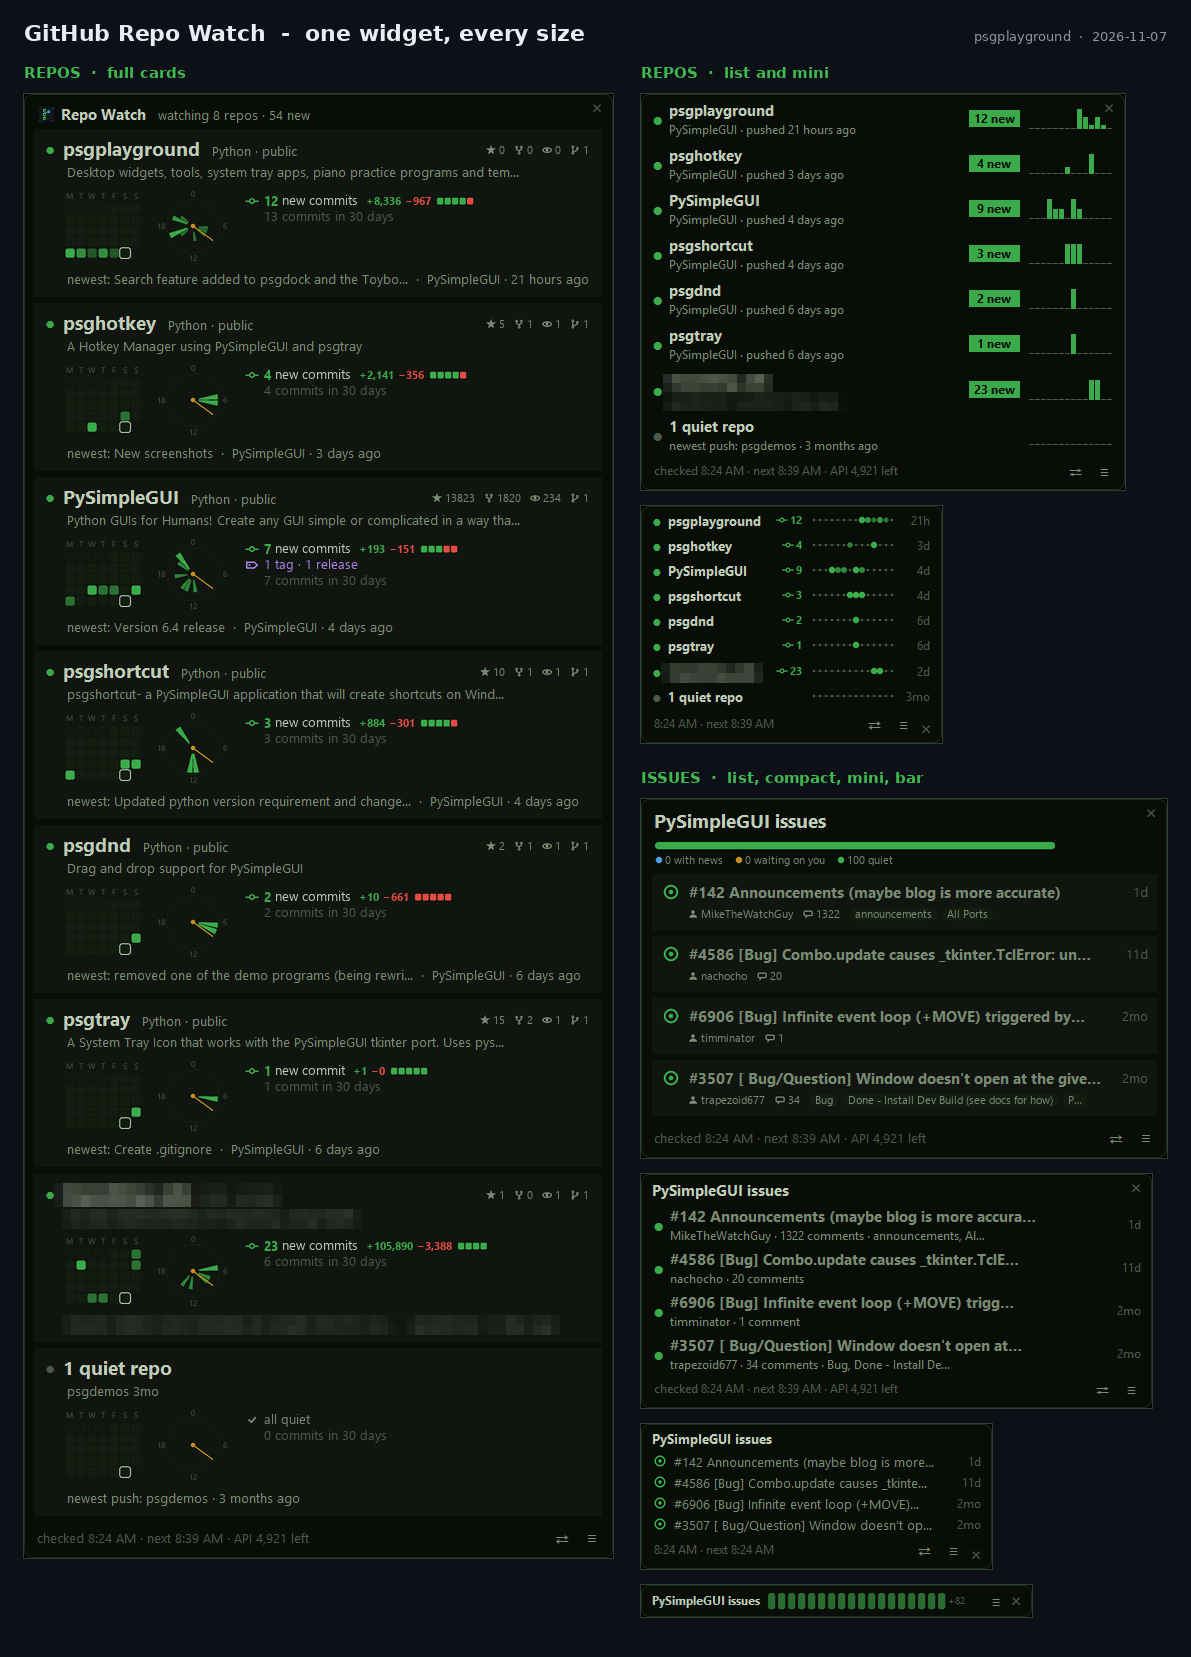
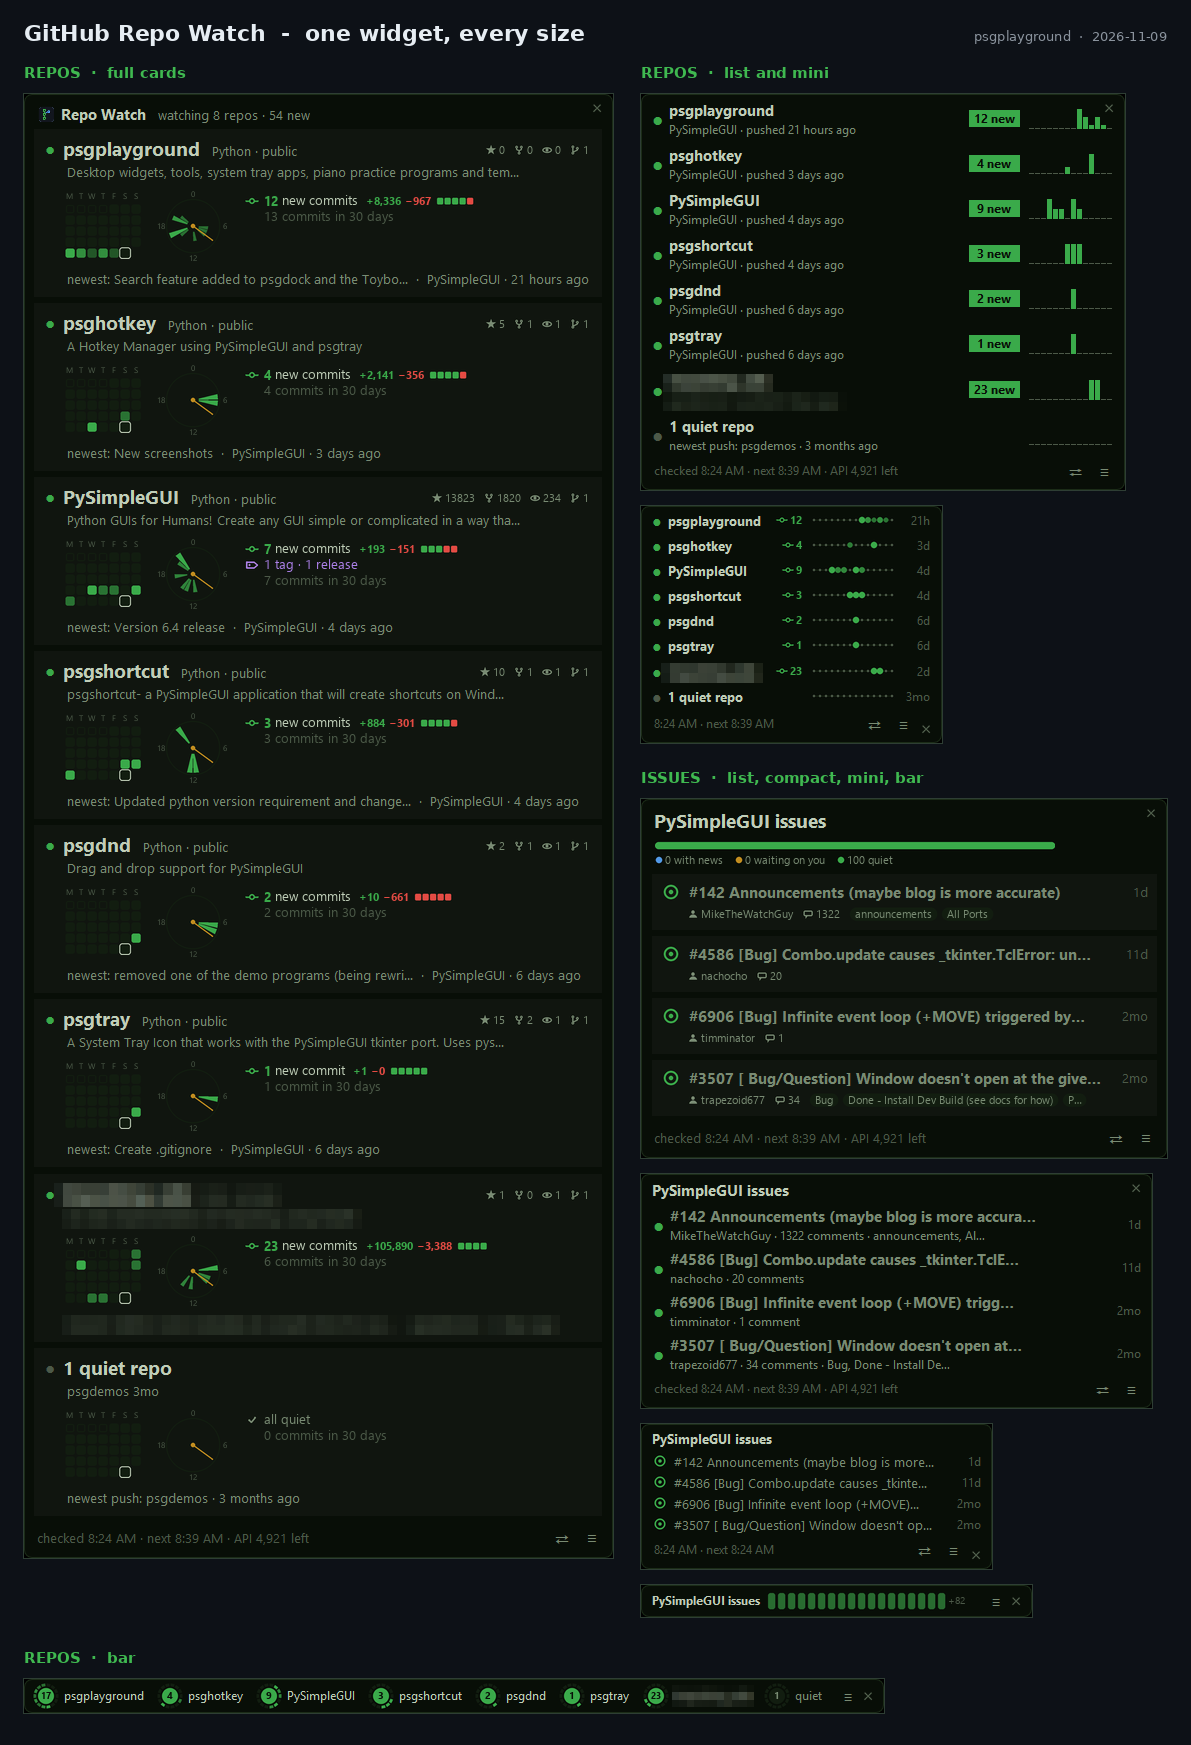
new screenshot for github watcher.  dock auto updates version numbers displayed now.

diff --git a/psgplayground/playground.py b/psgplayground/playground.py
@@ -60,7 +60,7 @@ import webbrowser
 
 import PySimpleGUI as sg
 
-VERSION = '1.12.3'
+VERSION = '1.12.5'
 APP_NAME = 'Toybox'
 TITLE = 'PySimpleGUI Playground - Toybox'
 ROOT = os.path.dirname(os.path.abspath(__file__))

diff --git a/README.md b/README.md
@@ -43,7 +43,7 @@ The Widget Template has all of it, ready for a widget of your own.
 
 Paths are inside the `psgplayground` package - in this repo, or in site-packages once you've installed it.
 
-<!-- PROGRAMS START: a sync writes everything from here to PROGRAMS END from catalog.json - change the catalog, not these tables  (sync 6cc68970385f) -->
+<!-- PROGRAMS START: a sync writes everything from here to PROGRAMS END from catalog.json - change the catalog, not these tables  (sync 1e9471295d6b) -->
 
 ### Widgets
 
@@ -51,7 +51,7 @@ Small (optionally) always-on-top desktop widgets that sit in a corner and quietl
 
 | Program | What it does | Needs |
 |---|---|---|
-| <img src="psgplayground/icons/github_repo_watch.png" width="40" height="40"><br>**GitHub Repo Watch** | Notices commits, releases and issues on the repos (or whole accounts) you watch - because GitHub never emails you about plain pushes.<br>`Widgets/github_repo_watch.pyw`<br><a href="psgplayground/screenshots/github_repo_watch.png"><img src="psgplayground/screenshots/github_repo_watch.png" width="108" height="150"></a> | - |
+| <img src="psgplayground/icons/github_repo_watch.png" width="40" height="40"><br>**GitHub Repo Watch** | Notices commits, releases and issues on the repos (or whole accounts) you watch - because GitHub never emails you about plain pushes.<br>`Widgets/github_repo_watch.pyw`<br><a href="psgplayground/screenshots/github_repo_watch.png"><img src="psgplayground/screenshots/github_repo_watch.png" width="102" height="150"></a> | - |
 | <img src="psgplayground/icons/cpu_cores_widget.png" width="40" height="40"><br>**CPU Cores Widget** | One scrolling graph per core. Click a core to see which processes are running on it.<br>`Widgets/cpu_cores_widget.pyw`<br><a href="psgplayground/screenshots/cpu_cores_widget.png"><img src="psgplayground/screenshots/cpu_cores_widget.png" width="240" height="43"></a> | psutil (optional: pywintrace) |
 | <img src="psgplayground/icons/cpu_percent_widget.png" width="40" height="40"><br>**CPU % Widget** | CPU load on a ring gauge that goes green to amber to red, with a sparkline of the last minute. No title bar; right-click for 32 themes.<br>`Widgets/cpu_percent_widget.pyw`<br><a href="psgplayground/screenshots/cpu_percent_widget.png"><img src="psgplayground/screenshots/cpu_percent_widget.png" width="240" height="119"></a> | psutil, pillow |
 | <img src="psgplayground/icons/ram_percent_widget.png" width="40" height="40"><br>**RAM % Widget** | Memory in use on the same ring-gauge card - GB used of the total, and a sparkline. Themes, sizes and opacity on the right-click menu.<br>`Widgets/ram_percent_widget.pyw`<br><a href="psgplayground/screenshots/ram_percent_widget.png"><img src="psgplayground/screenshots/ram_percent_widget.png" width="130" height="150"></a> | psutil, pillow |
